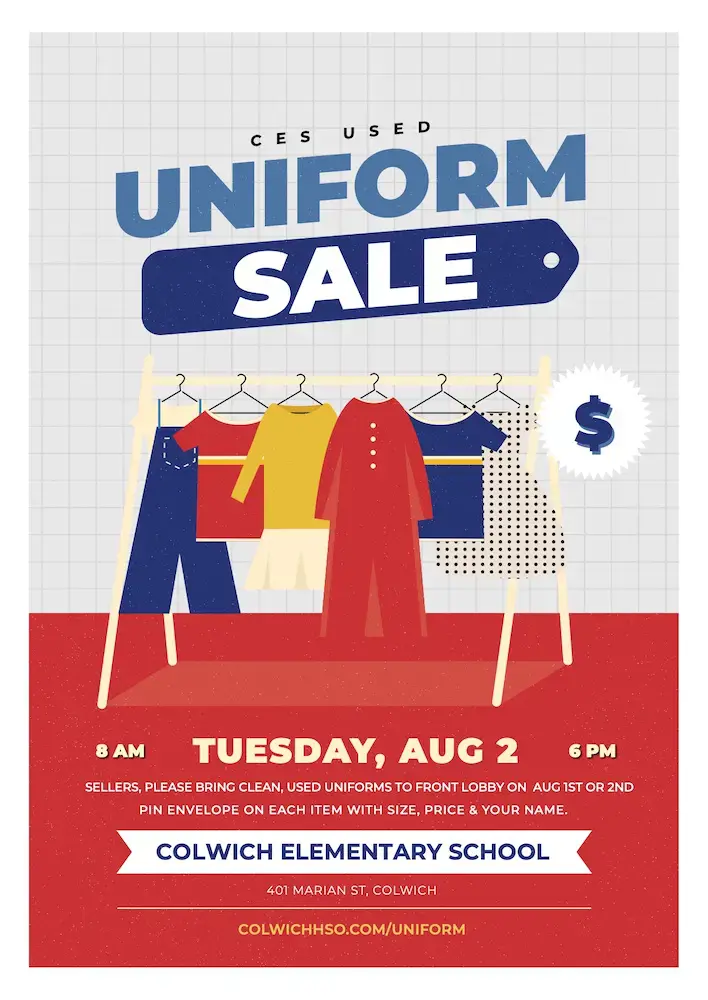
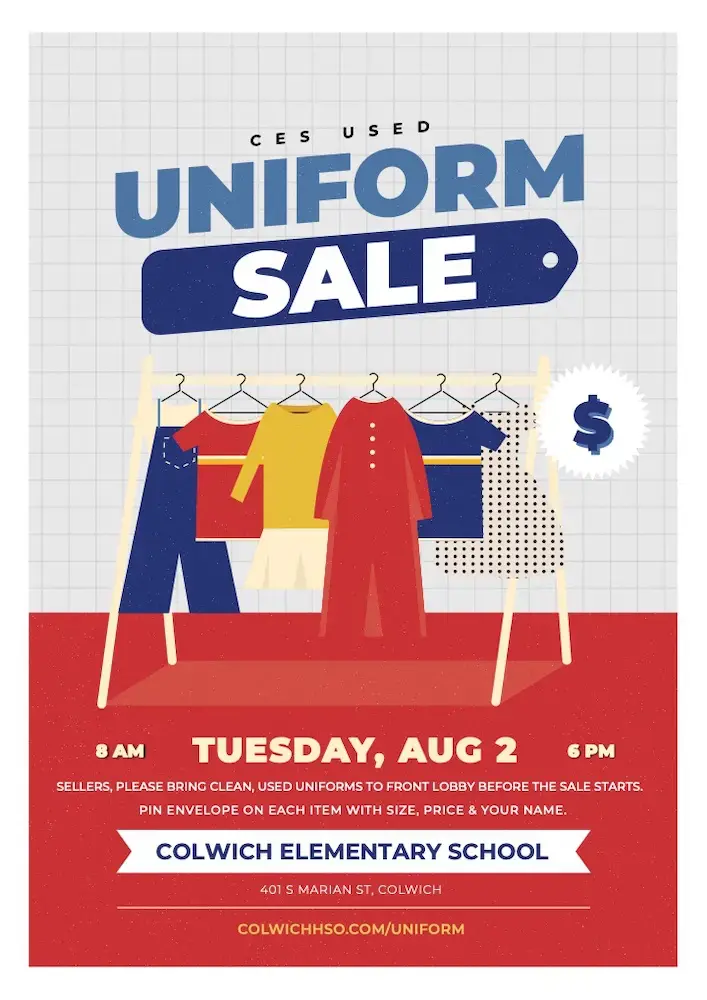
fix

diff --git a/content/faq/uniformsales/q5.md b/content/faq/uniformsales/q5.md
@@ -3,4 +3,4 @@ question: What does the seller have to do?
 type: faq
 faq_category: uniform
 ---
-If you plan to sell, please bring your clean uniforms to the lobby on August 1st or 2nd. Make sure you __pin an envelope__ on each item with the **price**, **size** and **full name**. There will be HSO volunteers to help collect and monitor the envelopes.
+If you plan to sell, please bring your clean uniforms to the lobby before the sale on August 2nd. Make sure you __pin an envelope__ on each item with the **price**, **size** and **full name**. There will be HSO volunteers to help collect and monitor the envelopes.
